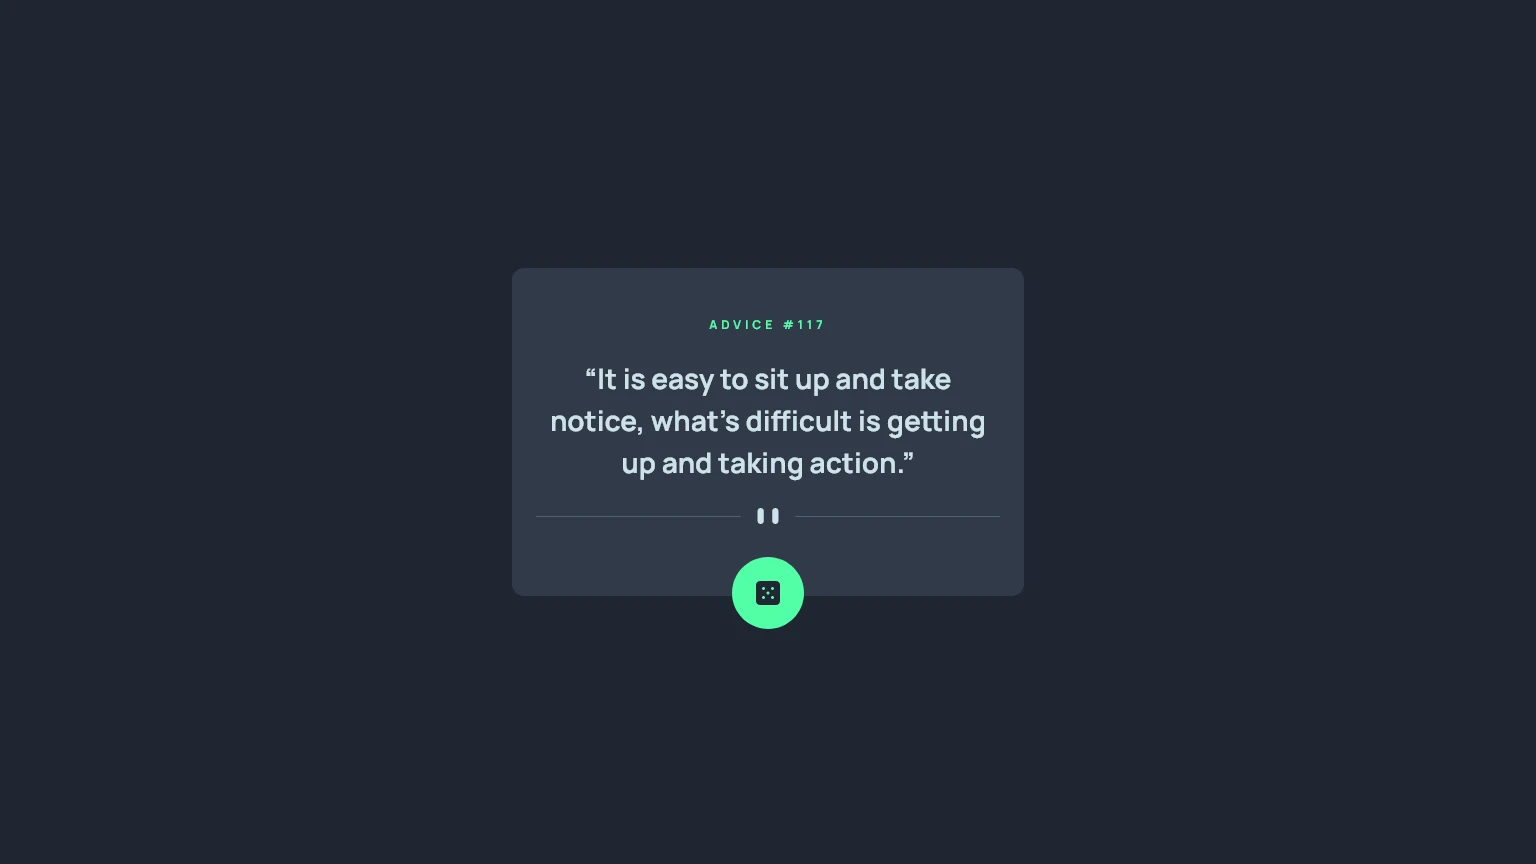
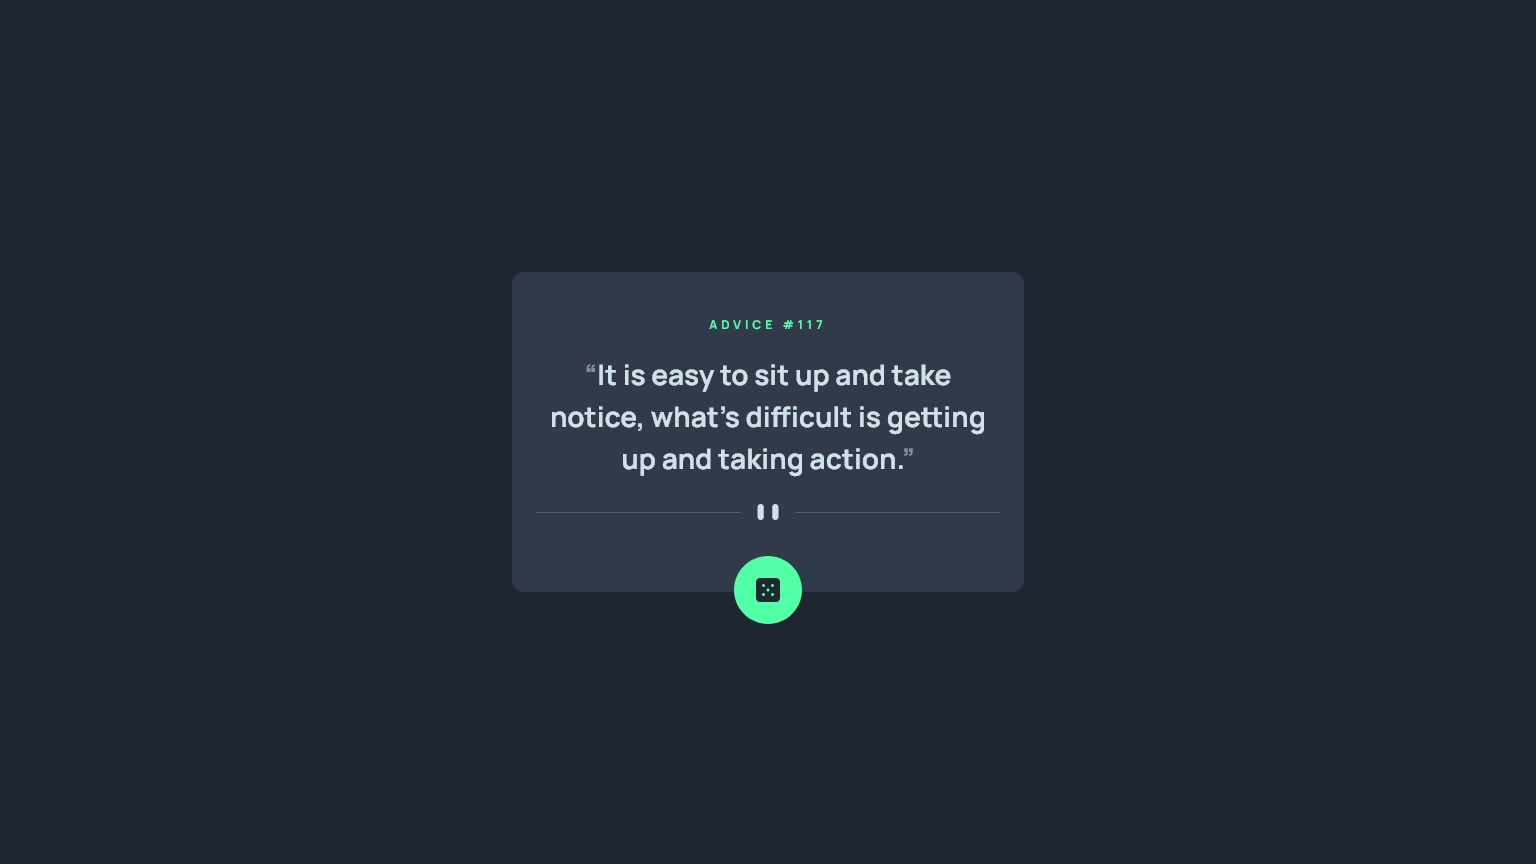
Write readme and generate gif preview

Changed region(s): [[0.3438, 0.4062, 0.6562, 0.5625], [0.4688, 0.6562, 0.5312, 0.7188]]

diff --git a/README.md b/README.md
@@ -1,16 +1,20 @@
 # Frontend Mentor - Advice generator app solution
 
-This is a solution to the [Advice generator app challenge on Frontend Mentor](https://www.frontendmentor.io/challenges/advice-generator-app-QdUG-13db). Frontend Mentor challenges help you improve your coding skills by building realistic projects.
+This is my solution to the [Advice generator app challenge on Frontend Mentor](https://www.frontendmentor.io/challenges/advice-generator-app-QdUG-13db). Frontend Mentor challenges help you improve your coding skills by building realistic projects.
 
-## Screenshot
+## Preview
 
-### Desktop on 1536px
+### Normal Motion
 
-![Desktop](./screenshot/Desktop%20-%20Frontend%20Mentor%20Advice%20generator%20app.webp)
+If user has no preference for reduced-motion, result will be like this:
 
-### Mobile on 475px
+![Normal Motion](./screenshot/Advice%20Generator%20Normal%20Motion.gif)
 
-![Mobile](./screenshot/Mobile%20-%20Frontend%20Mentor%20Advice%20generator%20app.webp)
+### Reduced Motion
+
+Some users prefer reduced-motion so we respect that as well:
+
+![Reduced Motion](./screenshot/Advice%20Generator%20Reduced%20Motion.gif)
 
 ## Links
 
@@ -21,6 +25,8 @@ This is a solution to the [Advice generator app challenge on Frontend Mentor](ht
 
 - Mobile-first workflow
 - [Vue](https://vuejs.org/) - JS framework
+- [Vite](https://vitejs.dev/) - Builder
+- [Modern Css Reset](https://github.com/hankchizljaw/modern-css-reset) - One of the best resetters
 
 ## Author
 
